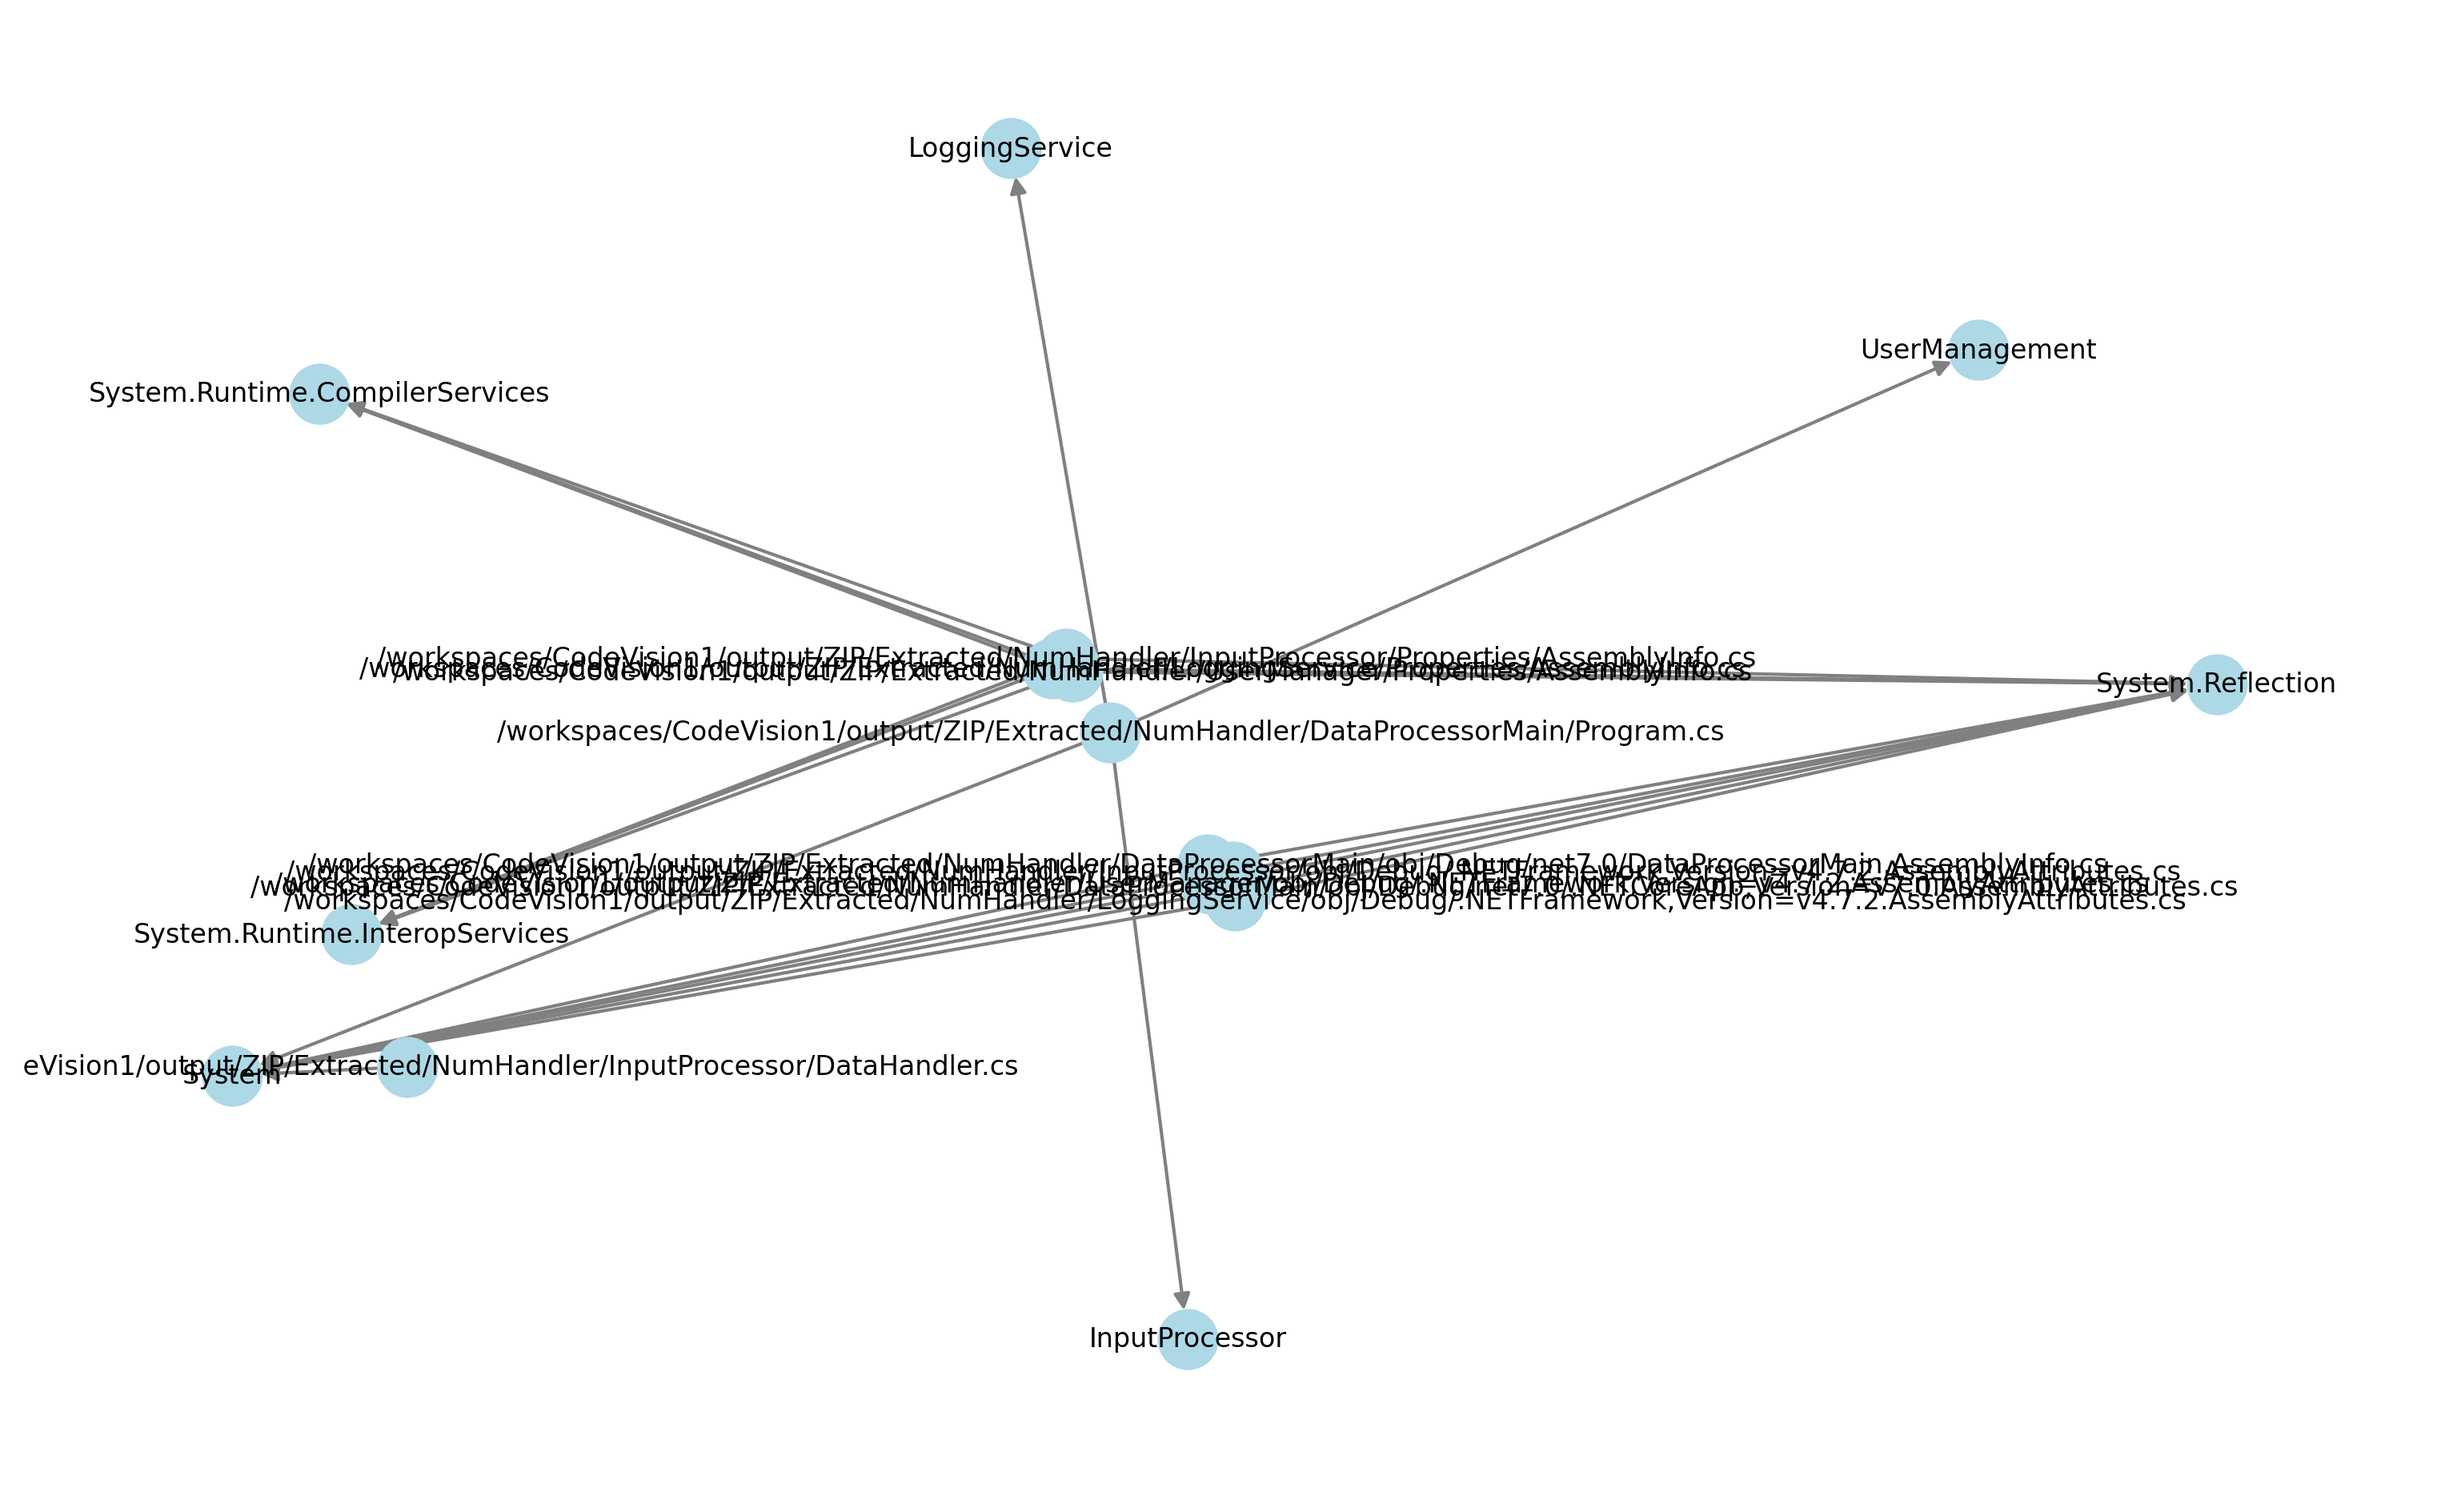
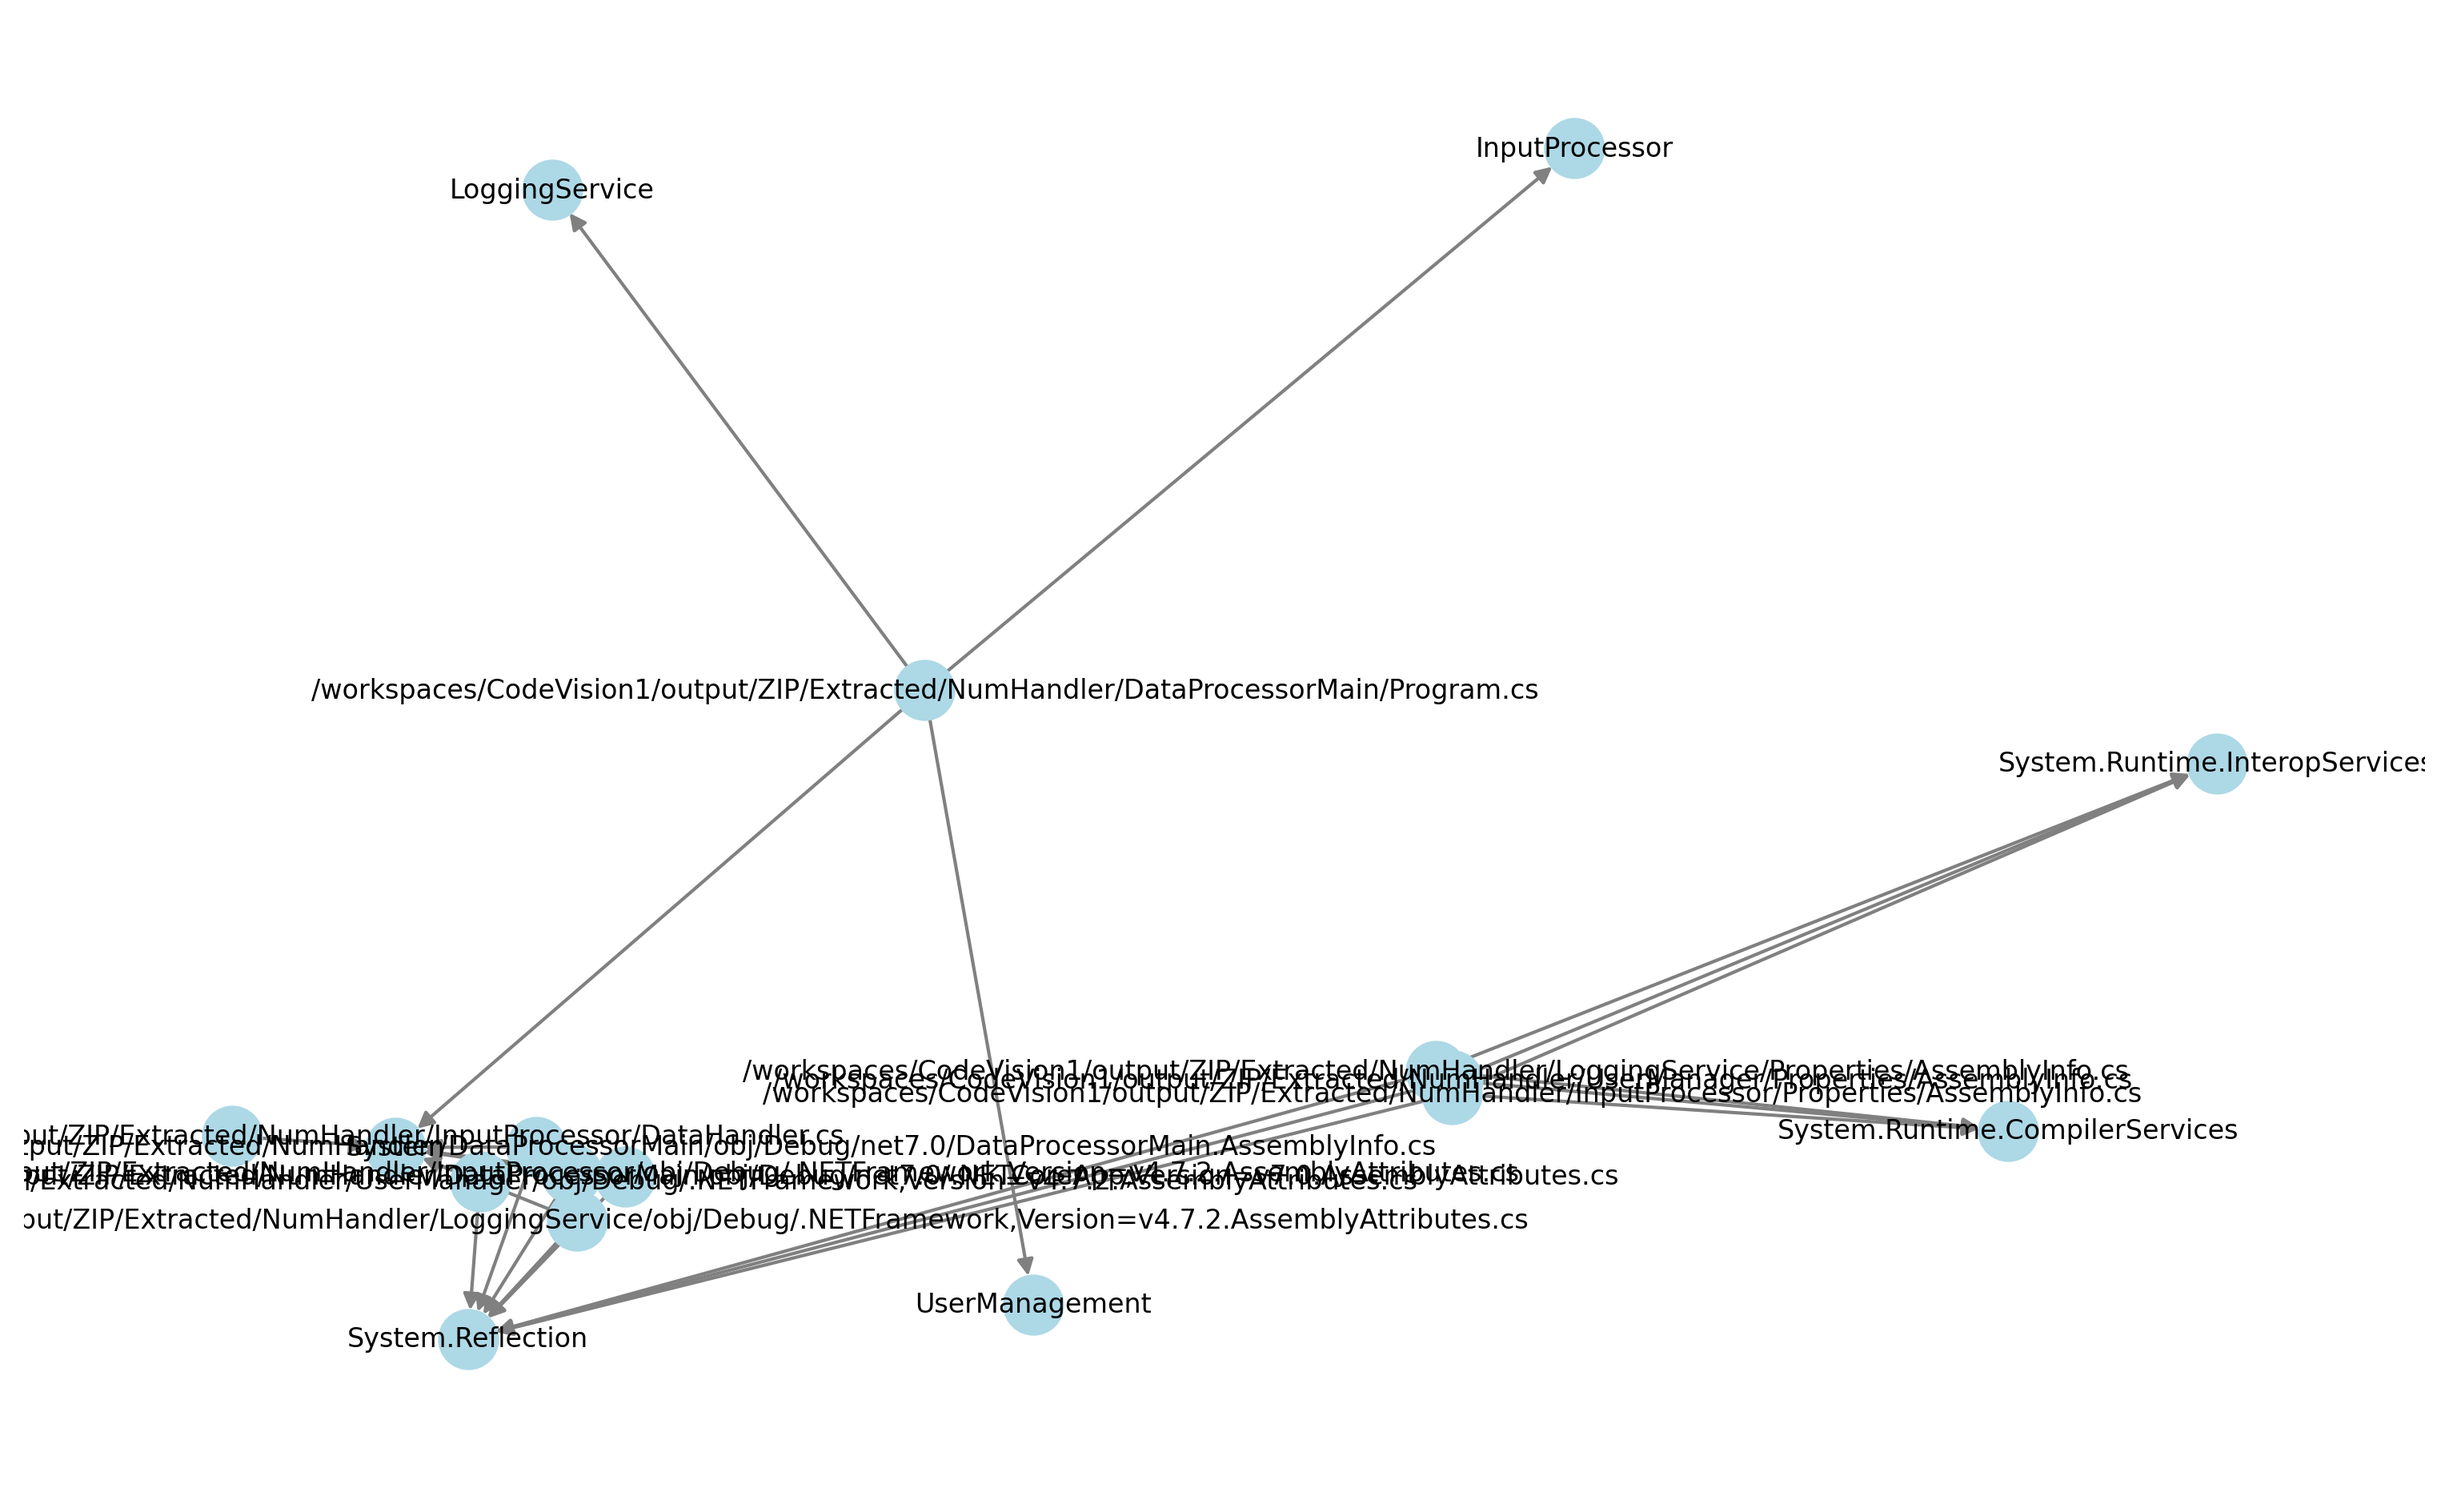
enhancedd ui & REGEX

diff --git a/templates/index.html b/templates/index.html
@@ -164,6 +164,12 @@
             margin: 15px 0;       /* Vertical margin */
             flex-wrap: wrap;      /* Allow wrapping on small screens */
         }
+
+        #response-content img {
+            max-width: 100%;
+            height: auto;
+            margin: 20px 0;
+        }
     </style>
     <script src="https://cdn.jsdelivr.net/npm/marked/marked.min.js"></script>
 </head>
@@ -259,7 +265,8 @@
             .then(response => response.json())
             .then(data => {
                 responseTextArea.style.display = "none";
-                renderMarkdown(`Code Analysis Results:\n\n${data.message}`);
+                const imgPath = `/static/images/dependencies_graph_${targetName}.png`;
+                renderMarkdown(`Code Analysis Results:\n\n![Dependency Graph](${imgPath})\n\n${data.message}`);
                 refactBtn.textContent = "Analysis Complete";
                 refactBtn.style.backgroundColor = "#4834d4";
             })
@@ -316,7 +323,6 @@
             let userInput = document.getElementById("chat-input").value;
             let responseText = document.getElementById("response-textarea").value;
             let combinedText = `User Input: ${userInput}\n\nResponse:\n${responseText}`;
-            
             let blob = new Blob([combinedText], { type: "text/plain" });
             let a = document.createElement("a");
             a.href = URL.createObjectURL(blob);

diff --git a/enhance.py b/enhance.py
@@ -121,18 +121,47 @@ def enhance(model_name):
         output_dir = "/workspaces/CodeVision1/output/enhancedFiles"
         os.makedirs(output_dir, exist_ok=True)
         
-        # Split the output into individual files
-        file_sections = re.split(r"===== FILE: (.*?) =====\n", output)
-        for i in range(1, len(file_sections), 2):
-            filename = file_sections[i].strip()
-            content = file_sections[i+1].strip().replace("===== END FILE =====", "").strip()
+        created_files = []
+        
+        # Add debug print to see the raw output
+        print("\nDebug - Raw output:")
+        print(output[:500])  # Print first 500 chars
+        
+        # Split the output into individual files with improved regex
+        pattern = r'===== FILE: ([^\n]+?) =====\n```[^\n]*\n(.*?)\n```(?:\n===== END FILE =====)?'
+        matches = re.finditer(pattern, output, re.DOTALL)
+        
+        for match in matches:
+            filename = match.group(1).strip()
+            content = match.group(2).strip()
             
-            output_path = os.path.join(output_dir, filename)
+            print(f"\nDebug - Processing file: {filename}")
+            print(f"Content length: {len(content)} characters")
+            
+            # Remove tmp path prefix if present
+            filename = re.sub(r'^/tmp/[^/]+/', '', filename)
+            
+            # Ensure the filename is sanitized and remove any invalid characters
+            safe_filename = os.path.normpath(filename).lstrip(os.sep)
+            output_path = os.path.join(output_dir, safe_filename)
+            
+            print(f"Debug - Writing to: {output_path}")
+            
+            # Ensure directory exists
             os.makedirs(os.path.dirname(output_path), exist_ok=True)
+            created_files.append(output_path)
             
-            with open(output_path, "w", encoding="utf-8") as f:
-                f.write(content)
-            print(f"Saved enhanced file: {output_path}")
+            try:
+                with open(output_path, "w", encoding="utf-8") as f:
+                    f.write(content)
+                print(f"Successfully saved: {output_path}")
+            except Exception as e:
+                print(f"Error saving file {output_path}: {e}")
+        
+        # Print summary of created files
+        print("\nSummary of created files:")
+        for file_path in created_files:
+            print(f"- {file_path}")
     else:
         print("Project enhancement failed.")
 

diff --git a/core.py b/core.py
@@ -313,23 +313,30 @@ import json
 import networkx as nx
 import matplotlib.pyplot as plt
 
-def visualize_dependencies():
+def visualize_dependencies(target=None):
     with open("code_index.json", "r", encoding="utf-8") as json_file:
         code_data = json.load(json_file)
 
     G = nx.DiGraph()
 
-    for file_path, file_data in code_data.items():  # Iterate over dictionary items
+    for file_path, file_data in code_data.items():
+        # Get just the filename without path
+        file_name = os.path.basename(file_path)
         for dep in file_data["dependencies"]:
-            G.add_edge(file_path, dep)
+            G.add_edge(file_name, dep)
 
     plt.figure(figsize=(10, 6))
     nx.draw(G, with_labels=True, node_color='lightblue', edge_color='gray', font_size=8)
 
-    # Save the graph as an image
-    plt.savefig("dependencies_graph.png", dpi=300, bbox_inches='tight')
-    plt.close()  # Close the plot to prevent overlapping issues in multiple runs
+    # Create static/images directory if it doesn't exist
+    static_dir = os.path.join(os.path.dirname(__file__), 'static', 'images')
+    os.makedirs(static_dir, exist_ok=True)
 
+    # Save the graph with target name in filename under static/images
+    filename = f"dependencies_graph_{target}.png" if target else "dependencies_graph.png"
+    filepath = os.path.join(static_dir, filename)
+    plt.savefig(filepath, dpi=300, bbox_inches='tight')
+    plt.close()
 
 
 # Example Usage
@@ -360,4 +367,4 @@ if __name__ == "__main__":
         print(f"Detailed Summary: {analysis['summary']}")
 
     if not args.refact:
-        visualize_dependencies()
+        visualize_dependencies(args.target)

diff --git a/extractCSharpCode.py b/extractCSharpCode.py
@@ -10,8 +10,8 @@ def extract_csharp_content(file_path):
     matches = re.findall(r'```csharp(.*?)```', content, re.DOTALL)
     
     if not matches:
-        print(f"Warning: No C# code blocks found in {file_path}")
-        return ""
+        print(f"Warning: No C# code blocks found in {file_path}, using entire content")
+        return content
     
     print(f"Found {len(matches)} C# code blocks in {file_path}")
     return '\n'.join(matches).strip()
